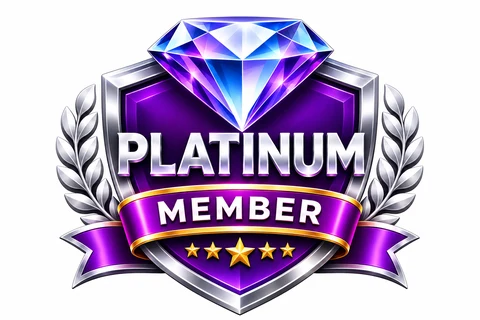
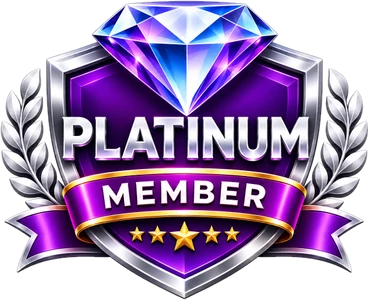
Medals hang exactly above their plan columns (transparent backgrounds); zoom control to left
Claude-Session: https://claude.ai/code/session_018BqU7gfo7Z31NQ6dg8zHaR

diff --git a/mybusiness.html b/mybusiness.html
@@ -125,14 +125,14 @@ h1{font-size:22px;color:var(--navy);margin:4px 2px 4px}
 .pc-free .pch{background:linear-gradient(#1a73e8,#0b57c4)}.pc-silver .pch{background:linear-gradient(#aeb7c6,#7c8798)}.pc-gold .pch{background:linear-gradient(#f3c23c,#c98a05)}.pc-platinum .pch{background:linear-gradient(135deg,#6D28D9,#2E0757)}
 .pc .pcp{text-align:center;font-weight:800;font-size:26px;padding:10px 6px 0;min-height:36px}.pc .pcp small{font-size:11px;color:#5b6475;font-weight:600}
 .pc ul{list-style:none;margin:8px 0 6px;padding:0 14px}.pc li{font-size:15px;padding:5px 0 5px 22px;position:relative}.pc li:before{content:"✓";position:absolute;left:0;color:#1e9e57;font-weight:800}
-.hang{position:relative;margin-top:14px;padding-top:12px;margin-bottom:10px}.hang:before{content:"";position:absolute;top:0;left:4%;right:4%;height:5px;border-radius:5px;background:linear-gradient(90deg,#b8c4da,#8795aa,#b8c4da)}
-.hg{display:flex;justify-content:center;gap:8px}.hg figure{margin:0;flex:0 1 26%;max-width:112px;position:relative;padding-top:22px;transform-origin:50% 0;animation:pbSwing 4.2s ease-in-out infinite}
-.hg figure:before{content:"";position:absolute;top:0;left:50%;width:2px;height:22px;background:#8795aa;transform:translateX(-50%)}
-.hg img{width:100%;display:block;border-radius:14px;box-shadow:0 6px 14px rgba(16,44,80,.25)}.hg figure.me img{outline:3px solid #f0b429;outline-offset:2px}
+.cmp .mrow td{background:transparent!important;border:0;padding:14px 0 6px;position:relative;vertical-align:top}.cmp .mrow td:before{content:"";position:absolute;top:0;left:0;right:0;height:5px;background:linear-gradient(90deg,#b8c4da,#8795aa,#b8c4da)}
+.cmp .mrow figure{margin:0 auto;width:72%;max-width:120px;position:relative;padding-top:20px;transform-origin:50% 0;animation:pbSwing 4.2s ease-in-out infinite}
+.cmp .mrow figure:before{content:"";position:absolute;top:0;left:50%;width:2px;height:20px;background:#8795aa;transform:translateX(-50%)}
+.cmp .mrow img{width:100%;display:block;filter:drop-shadow(0 5px 6px rgba(16,44,80,.28))}.cmp .mrow figure.me img{filter:drop-shadow(0 0 5px #f0b429) drop-shadow(0 0 2px #f0b429)}
 @keyframes pbSwing{0%,100%{transform:rotate(2.2deg)}50%{transform:rotate(-2.2deg)}}@media(prefers-reduced-motion:reduce){.hg figure{animation:none}}
 .offer{margin-top:12px;border-radius:14px;padding:12px 14px;background:linear-gradient(135deg,#fff7e0,#eefaf1);border:1px solid #f1d98a}.offer .oh{font-weight:800;color:#7a4b00;font-size:15.5px}.offer p{margin:6px 0;font-size:13.5px}.offer small{color:#5b6475;font-size:12px}.offer .lights{display:flex;gap:8px;margin:8px 0}.offer .lights span{width:30px;height:30px;border-radius:50%;background:#dbe8fb;color:#1a4fa0;display:grid;place-items:center;font-weight:800;font-size:13px}
 .cmp .mb{display:block;width:100%;max-width:150px;margin:0 auto 4px;border-radius:12px}.cmp .prow td{border-top:2px solid #e4eaf5;padding:16px 6px;background:#fff}.cmp .prow td:first-child{font-weight:800}.cmp .pp{font-size:24px;font-weight:900}.cmp .pp-free{color:#1a73e8}.cmp .pp-silver{color:#6b7788}.cmp .pp-gold{color:#B58A2A}.cmp .pp-platinum{color:#6D28D9}.cmp .thp{display:block;font-size:14px;font-weight:700;opacity:.95;margin-top:2px}.offer .shb{display:block;width:100%;margin:6px 0 8px;padding:12px;border:0;border-radius:12px;background:#1e9e57;color:#fff;font-size:16px;font-weight:800}
-.pz{display:flex;align-items:center;justify-content:flex-end;gap:8px;margin-top:12px}.pz button{width:40px;height:40px;border-radius:50%;border:1.5px solid #c9d6ee;background:#fff;color:#0b2f73;font-size:22px;font-weight:800;line-height:1}.pz span{min-width:48px;text-align:center;font-weight:800;color:#0b2f73}
+.pz{display:flex;align-items:center;justify-content:flex-start;gap:8px;margin-top:12px}.pz button{width:40px;height:40px;border-radius:50%;border:1.5px solid #c9d6ee;background:#fff;color:#0b2f73;font-size:22px;font-weight:800;line-height:1}.pz span{min-width:48px;text-align:center;font-weight:800;color:#0b2f73}
 .cmpw{overflow-x:auto;margin-top:12px;-webkit-overflow-scrolling:touch}.cmp{width:100%;border-collapse:collapse;text-align:center;min-width:760px;font-size:18px;table-layout:fixed}.cmp th:first-child{width:250px}.cmp th,.cmp td{border-bottom:1px solid #e4eaf5;padding:12px 8px}.cmp th{font-size:17px}.cmp td:first-child{text-align:left;font-weight:700;padding-left:8px}
 .cmp .cmh{background:#0b367f;color:#fff;text-align:left;padding-left:10px;border-radius:12px 0 0 0}.cmp th{color:#fff;font-size:12.5px}.cmp th em{display:inline-block;font-style:normal;background:#fff;color:#2E0757;border-radius:999px;padding:1px 8px;font-size:12px;margin-top:2px}
 .cmp .th-free{background:#0875ed}.cmp .th-silver{background:#8795aa}.cmp .th-gold{background:#c58a08}.cmp .th-platinum{background:linear-gradient(135deg,#6D28D9,#2E0757)}
@@ -758,15 +758,15 @@ function plansCompare(b,i,en){
   ].map(x=>[x[0],x[1],T.find(t=>x[2](t))||"platinum"]);
   const GT={free:en?"✅ Free plan includes (in every plan)":"✅ Free प्लान में मिलता है (हर प्लान में)",silver:en?"🥈 Added in Silver":"🥈 Silver में जुड़ता है",gold:en?"👑 Added in Gold":"👑 Gold में जुड़ता है",platinum:en?"💎 Added in Platinum":"💎 Platinum में जुड़ता है"};
   const ALLR=ALLP.concat(FE);
+  const mrow='<tr class="mrow"><td></td><td></td>'+["silver","gold","platinum"].map((t,k)=>'<td><figure class="'+(t===cur?"me":"")+'" style="animation-delay:'+(k*0.6)+'s"><img src="pb-member-'+t+'.webp" alt="'+esc(PBPlan.name(t,en))+' Member" loading="lazy"></figure></td>').join("")+'</tr>';
   const head='<tr><th class="cmh">'+(en?"Compare Plans":"प्लान तुलना")+'</th>'+T.map(t=>'<th class="th-'+t+'">'+ic[t]+'<br>'+nm(t)+(t===cur?'<br><em>'+(en?"Your Plan":"आपका प्लान")+'</em>':'')+'</th>').join("")+'</tr>';
   const body=T.map(g=>{const rows=ALLR.filter(r=>r[2]===g);return rows.length?(g==="free"?'<tr class="grp grp-'+g+'"><td colspan="5">'+GT[g]+'</td></tr>':'')+rows.map(r=>'<tr><td>'+r[0]+'</td>'+T.map(t=>'<td class="td-'+t+'">'+r[1](t)+'</td>').join("")+'</tr>').join(""):"";}).join("")+'<tr class="prow"><td>'+(en?"Price (1 year)":"क़ीमत (1 साल)")+'</td>'+T.map(t=>'<td class="pp pp-'+t+'">₹'+PLAN_PRICE[t].toLocaleString("en-IN")+'</td>').join("")+'</tr>';
-  const hang='<div class="hang"><div class="hg">'+["silver","gold","platinum"].map((t,k)=>'<figure class="'+(t===cur?"me":"")+'" style="animation-delay:'+(k*0.6)+'s"><img src="pb-member-'+t+'.webp" alt="'+esc(PBPlan.name(t,en))+' Member" loading="lazy"></figure>').join("")+'</div></div>';
   return ''+
     '<div class="offer"><div class="oh">🎁 '+(en?"Silver Plan FREE for 1 Year":"Silver प्लान 1 साल मुफ़्त")+'</div>'+
     '<p>'+(en?"<strong>Share PataBook with 5 shopkeepers.</strong> When all 5 shops are complete, verified and Active, your Silver Plan reward will be unlocked and shown automatically on your mobile.":"<strong>5 दुकानदारों को PataBook शेयर करें।</strong> जब पाँचों दुकानें पूरी, जाँची हुई और Active हो जाएँगी, तब आपका Silver प्लान इनाम अपने-आप खुल जाएगा और आपके मोबाइल पर दिखेगा।")+'</p>'+
     '<div class="lights">'+[1,2,3,4,5].map(n=>'<span>'+n+'</span>').join("")+'</div>'+
     '<button type="button" class="shb" data-psh="1">📤 '+(en?"Share PataBook with shopkeepers":"दुकानदारों को PataBook भेजें")+'</button><small>'+(en?"Offer valid till 31 January 2027 · Free plan continues as it is · Referral tracking starts soon.":"ऑफ़र 31 जनवरी 2027 तक · Free प्लान वैसे ही चलता रहेगा · रेफ़रल गिनती जल्द शुरू होगी।")+'</small></div>'+
-    hang+'<div class="pz"><button type="button" data-pz="-" aria-label="'+(en?"Zoom out":"छोटा करें")+'">−</button><span class="pzv" data-pz="r" title="Reset">'+Math.round(PZ*100)+'%</span><button type="button" data-pz="+" aria-label="'+(en?"Zoom in":"बड़ा करें")+'">+</button></div><div class="cmpw"><table class="cmp" style="zoom:'+PZ+'">'+head+body+'</table></div><div class="pswipe">'+(en?"Swipe left / right ↔":"बाएँ / दाएँ स्क्रॉल करें ↔")+'</div>';
+    '<div class="pz"><button type="button" data-pz="-" aria-label="'+(en?"Zoom out":"छोटा करें")+'">−</button><span class="pzv" data-pz="r" title="Reset">'+Math.round(PZ*100)+'%</span><button type="button" data-pz="+" aria-label="'+(en?"Zoom in":"बड़ा करें")+'">+</button></div><div class="cmpw"><table class="cmp" style="zoom:'+PZ+'"><colgroup><col style="width:250px"><col><col><col><col></colgroup>'+mrow+head+body+'</table></div><div class="pswipe">'+(en?"Swipe left / right ↔":"बाएँ / दाएँ स्क्रॉल करें ↔")+'</div>';
 }
 function premBlock(b,i){
   if(!PREM)return "";const P=PREM[b.slug]||{},en=L()==="en";
